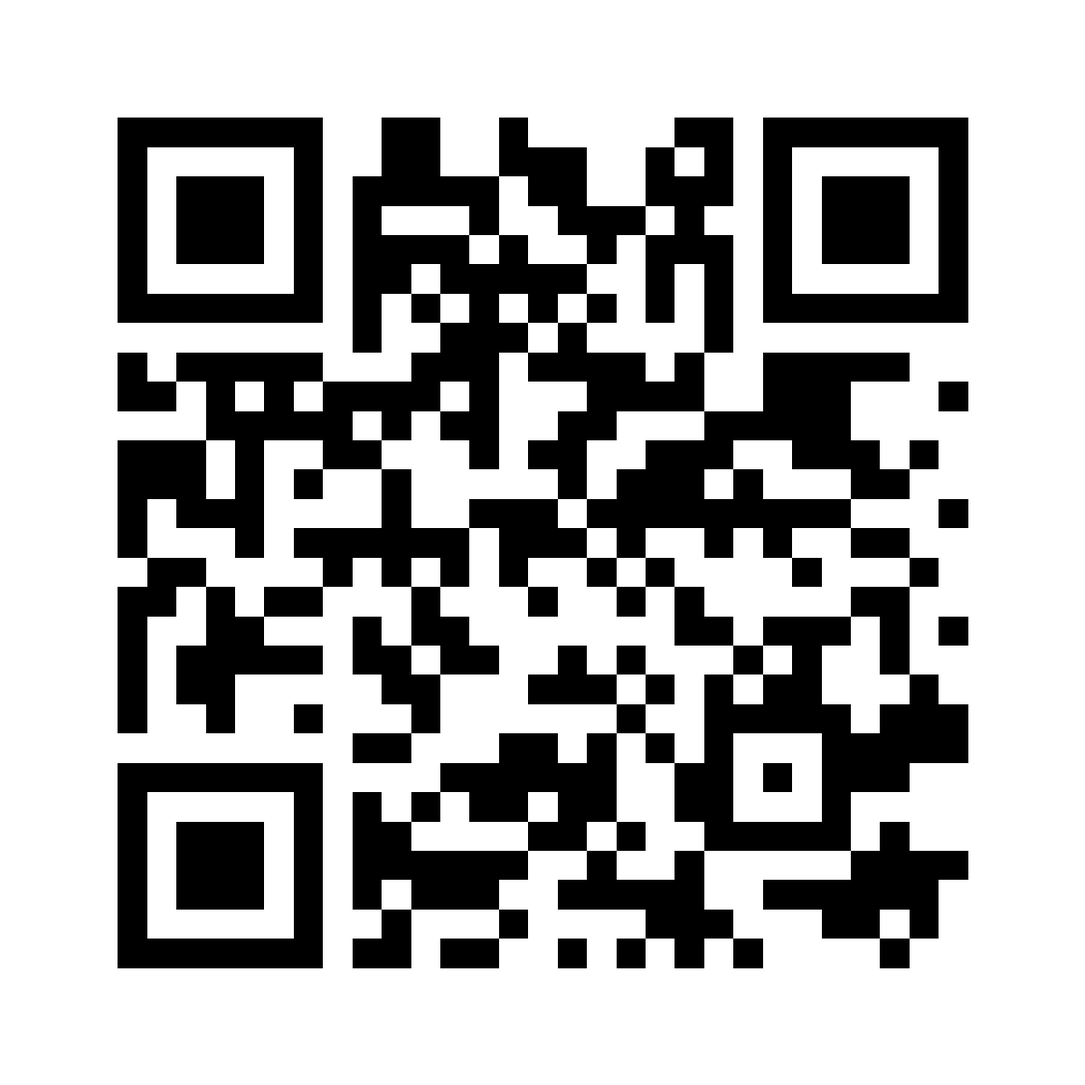
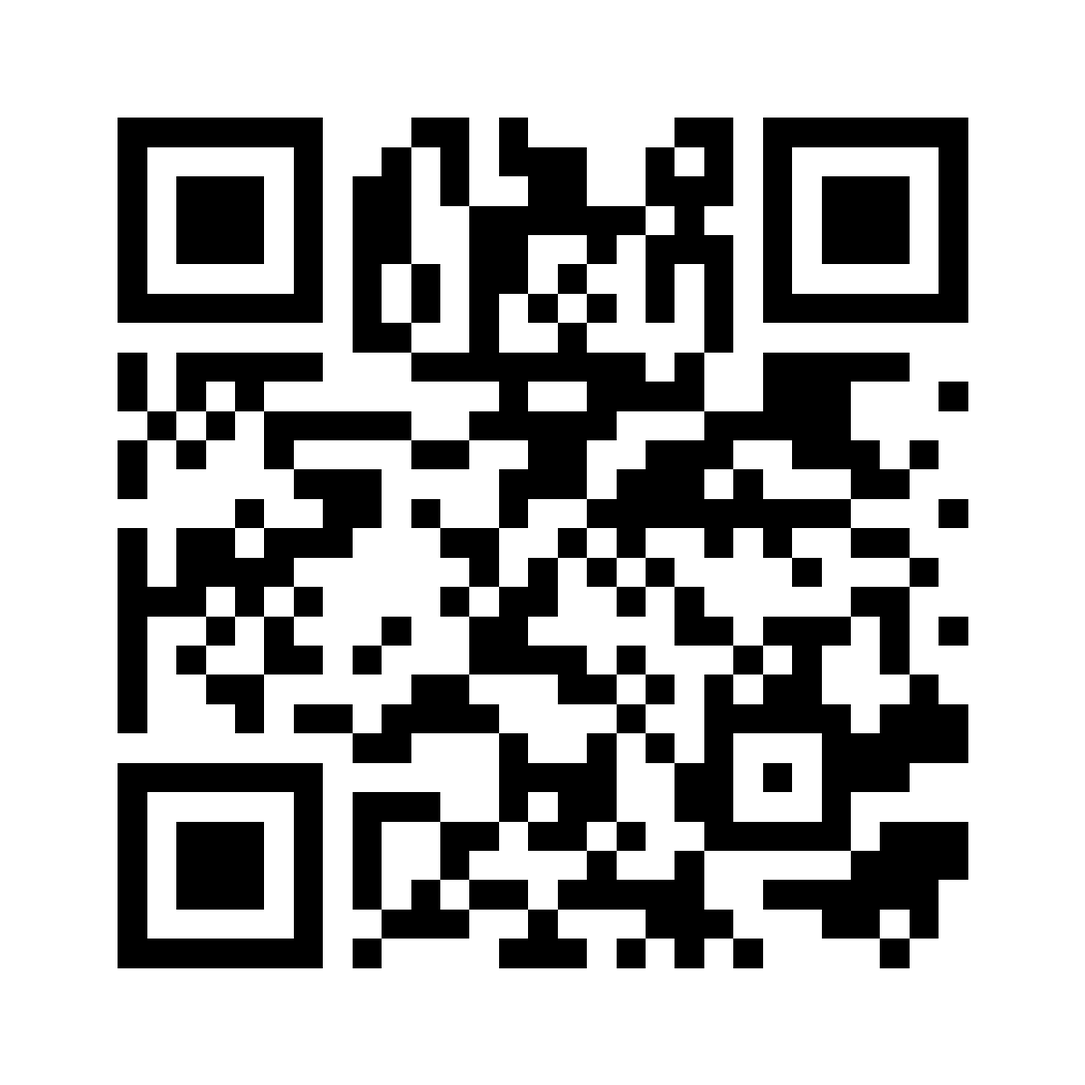
store-member-qr-and-walkin-loyalty

Changed region(s): [[0.0925, 0.0925, 0.5242, 0.8942], [0.8325, 0.74, 0.8942, 0.8017]]

diff --git a/app/staff/page.tsx b/app/staff/page.tsx
@@ -49,6 +49,7 @@ const baht = (n) => {
 // ที่อยู่เว็บจริง — ใช้ทำลิงก์ใน QR บนสติกเกอร์ (ต้องเป็นเว็บจริงเสมอ ไม่ใช่ localhost ไม่งั้นสติกเกอร์ที่พิมพ์ไปใช้ไม่ได้)
 const SITE_URL = process.env.NEXT_PUBLIC_SITE_URL || "https://honey-studio-opal.vercel.app";
 // ลิงก์หน้าสินค้าสาธารณะ (ไม่ต้องล็อกอิน) — ปลายทางของ QR
+const MEMBER_URL = SITE_URL.replace(/\/$/,'')+'/join';
 const productUrl = (id) => `${SITE_URL}/p/${encodeURIComponent(id)}`;
 const ICONS = { Crown, Shield, UserCog, Users };
 const genId = (prefix) => prefix + Math.floor(1000 + Math.random() * 9000);
@@ -572,10 +573,11 @@ const rentalFields = (isEdit) => [
   { key: "id", label: "เลขที่การเช่า", required: true, readOnly: isEdit, placeholder: "เช่น R-501" },
   { key: "cust", label: "ลูกค้า", type: "customer", required: true },
   { key: "phone", label: "เบอร์โทรลูกค้า", placeholder: "เช่น 081-234-5678" },
+  { key: "userId", label: "รหัสสมาชิกจากแอพลูกค้า (ถ้ามี)", placeholder: "ให้ลูกค้าเปิดหน้าสมาชิก แล้วคัดลอกรหัส" },
   { key: "code", label: "เลือกชุดจากคลัง (ตัดสต็อกอัตโนมัติ + เติมชื่อ/ค่าเช่าให้)", type: "product", fill: { item: "name", fee: (p) => p.rent || 0, deposit: (p)=>p.rent||0 } },
   { key: "item", label: "รายการที่เช่า (แก้ไขได้)", required: true },
-  { key: "start", label: "วันรับ", placeholder: "เช่น 16 มิ.ย." },
-  { key: "end", label: "วันคืน", placeholder: "เช่น 18 มิ.ย." },
+  { key: "start", label: "วันรับ", type: isEdit ? "text" : "date", required: !isEdit, placeholder: "YYYY-MM-DD" },
+  { key: "end", label: "วันคืน", type: isEdit ? "text" : "date", required: !isEdit, placeholder: "YYYY-MM-DD" },
   { key: "fee", label: "ค่าเช่า (บาท)", type: "number" },
   { key: "deposit", label: "เงินมัดจำ (บาท)", type: "number" },
   { key: "fine", label: "ค่าปรับล่าช้า (บาท)", type: "number" },
@@ -974,12 +976,12 @@ export default function App() {
       {appQrOpen&&<Modal title="QR เข้าสู่แอพสำหรับลูกค้า" onClose={()=>setAppQrOpen(false)}>
         <div className="flex flex-col items-center gap-4 text-center">
           <div className="font-bold">HONEY STUDIO</div>
-          <QR value={SITE_URL.replace(/\/$/,'')+'/'} size={220} onData={setAppQrPng}/>
-          <p className="text-sm">สแกนเพื่อเข้าสู่แอพ สมัครสมาชิก หรือเข้าสู่ระบบ<br/>ติดตั้งแอพจากปุ่ม “ติดตั้งแอป” ได้</p>
-          <a href={SITE_URL} target="_blank" rel="noreferrer" className="underline text-xs break-all">{SITE_URL}</a>
+          <QR value={MEMBER_URL} size={220} onData={setAppQrPng}/>
+          <p className="text-sm">ลูกค้าหน้าร้าน: สแกนสมัครสมาชิก / เข้าสู่ระบบ เพื่อสะสมแต้มและรับแจ้งเตือน<br/>ติดตั้งแอพจากปุ่ม “ติดตั้งแอป” ได้</p>
+          <a href={MEMBER_URL} target="_blank" rel="noreferrer" className="underline text-xs break-all">{MEMBER_URL}</a>
           <div className="flex gap-2 flex-wrap justify-center">
             <Btn onClick={()=>{if(!appQrPng)return;const a=document.createElement('a');a.href=appQrPng;a.download='HONEY-STUDIO-app-QR.png';a.click();}}>ดาวน์โหลด QR</Btn>
-            <Btn variant="outline" onClick={()=>{if(!appQrPng)return;openPrintWindow('QR แอพ HONEY STUDIO',`<div class="wrap box center"><div class="big">HONEY STUDIO</div><p>สแกนเพื่อเข้าสู่แอพ</p><img src="${appQrPng}" width="240" height="240" alt="QR แอพ"/><p>สมัครสมาชิก / เข้าสู่ระบบ</p><div class="muted" style="font-size:11px">${esc(SITE_URL)}</div></div>`);}}>พิมพ์ QR</Btn>
+            <Btn variant="outline" onClick={()=>{if(!appQrPng)return;openPrintWindow('QR แอพ HONEY STUDIO',`<div class="wrap box center"><div class="big">HONEY STUDIO</div><p>สแกนเพื่อเข้าสู่แอพ</p><img src="${appQrPng}" width="240" height="240" alt="QR แอพ"/><p>สมัครสมาชิก / เข้าสู่ระบบ</p><div class="muted" style="font-size:11px">${esc(MEMBER_URL)}</div></div>`);}}>พิมพ์ QR</Btn>
           </div>
         </div>
       </Modal>}

diff --git a/scripts/verify-store-member.ts b/scripts/verify-store-member.ts
@@ -1,0 +1,38 @@
+import assert from 'node:assert/strict';
+import {randomUUID} from 'node:crypto';
+import {config} from 'dotenv';
+import {Client} from 'pg';
+import {createSession} from '../lib/auth';
+import {thaiToday} from '../lib/booking-availability';
+config({path:'.env.local',quiet:true});
+async function main(){
+  const base='http://127.0.0.1:3019',suffix=randomUUID(),code='TEST-MEMBER-'+suffix,email='member-'+suffix+'@example.invalid';
+  const staff=await createSession({id:'test-owner',name:'ทดสอบ',role:'เจ้าของ',email:'owner@example.invalid'});
+  const other=await createSession({id:'other-'+suffix,name:'สมาชิกหน้าร้านทดสอบ',role:'ลูกค้า',email:'other@example.invalid'});
+  const db=new Client({connectionString:process.env.DATABASE_URL});await db.connect();let memberId='';
+  async function req(path:string,cookie='',method='GET',body?:object){const r=await fetch(base+path,{method,headers:{'Content-Type':'application/json',...(cookie?{Cookie:'hs_session='+cookie}:{})},...(body?{body:JSON.stringify(body)}:{})});return {status:r.status,data:await r.json(),cookie:r.headers.get('set-cookie')};}
+  try{
+    const join=await fetch(base+'/join',{redirect:'manual'});assert.equal(join.status,307);assert.ok(join.headers.get('location')?.includes('/login?next=%2Fmember'));
+    const register=await req('/api/auth/register','','POST',{name:'สมาชิกหน้าร้านทดสอบ',email,password:'test-'+suffix});assert.equal(register.status,200);memberId=register.data.user.id;
+    const cookie=register.cookie!.match(/hs_session=([^;]+)/)![1];
+    const joined=await fetch(base+'/join',{headers:{Cookie:'hs_session='+cookie},redirect:'manual'});assert.ok(joined.headers.get('location')?.endsWith('/member'));
+    const memberPage=await fetch(base+'/member',{headers:{Cookie:'hs_session='+cookie}});assert.equal(memberPage.status,200);assert.ok((await memberPage.text()).includes('สมาชิกหน้าร้าน'));
+    assert.equal((await req('/api/shop/customer-account',cookie)).data.memberId,memberId);
+    assert.equal((await req('/api/products',staff,'POST',{id:code,name:'ชุดทดสอบสมาชิกหน้าร้าน',cat:'ชุดราตรี',type:'เช่า',rent:300,stockRent:1,stockSell:0})).status,201);
+    const body={id:'TEST-WALKIN-'+suffix,code,item:'ชุดทดสอบสมาชิกหน้าร้าน',cust:'สมาชิกหน้าร้านทดสอบ',start:thaiToday(),end:new Date(Date.parse(thaiToday())+86400000).toISOString().slice(0,10),fee:300,deposit:300,status:'รับชุดแล้ว'};
+    assert.equal((await req('/api/rentals',staff,'POST',{...body,userId:'unknown-member'})).status,409);
+    assert.equal((await req('/api/rentals',staff,'POST',{...body,userId:memberId,start:'16 มิ.ย.'})).status,409);
+    const rental=await req('/api/rentals',staff,'POST',{...body,userId:memberId});assert.equal(rental.status,201);assert.equal(rental.data.online,false);
+    const account=await req('/api/shop/customer-account',cookie);assert.equal(account.data.rentals.length,1);assert.equal(account.data.balance,0);assert.ok(account.data.notifications.length>0);
+    assert.equal((await req('/api/shop/customer-account',other)).data.rentals.length,0);assert.equal((await req('/api/rentals',other)).data.some((r:{id:string})=>r.id===body.id),false);
+    assert.equal((await req('/api/rentals/'+body.id,staff,'PATCH',{status:'คืนแล้ว'})).status,200);assert.equal((await req('/api/rentals/'+body.id,staff,'PATCH',{status:'คืนแล้ว'})).status,200);assert.equal((await req('/api/shop/customer-account',cookie)).data.balance,1);
+    assert.equal((await req('/api/rentals/'+body.id,staff,'PATCH',{userId:''})).status,409);
+    const action='/api/products/'+code+'/rental-actions';
+    const qr=await req(action,staff,'POST',{action:'rent',userId:memberId,cust:'สมาชิกหน้าร้านทดสอบ',start:thaiToday(),days:1});assert.equal(qr.status,201);
+    assert.equal((await req(action,staff,'POST',{action:'return',rentalId:qr.data.rental.id})).status,200);assert.equal((await req('/api/shop/customer-account',cookie)).data.balance,2);
+    console.log('PASS: store QR redirects, signup session, member home, valid member link, walk-in rental privacy, reminders, POS/QR return points and duplicate prevention');
+  }finally{
+    await db.query('BEGIN');await db.query('DELETE FROM "LoyaltyEntry" WHERE "userId"=$1',[memberId]);await db.query('DELETE FROM "NotificationRead" WHERE "userId"=$1',[memberId]);await db.query('DELETE FROM "Rental" WHERE code=$1',[code]);await db.query('DELETE FROM "Product" WHERE id=$1',[code]);await db.query('DELETE FROM "User" WHERE email=$1',[email]);await db.query('COMMIT');await db.end();console.log('Temporary member test data removed');
+  }
+}
+main().catch(e=>{console.error(e.message);process.exitCode=1;});

diff --git a/app/member/member-home.tsx b/app/member/member-home.tsx
@@ -1,0 +1,11 @@
+'use client';
+import {useEffect,useState} from 'react';
+import CustomerAccount from '../shop/customer-account';
+import LineContact from '../shop/line-contact';
+import InstallApp from '../install-app';
+type Account={memberId:string;name:string;balance:number;rentals:{id:string;item:string;start:string;end:string;status:string;online:boolean}[]};
+export default function MemberHome(){
+  const [data,setData]=useState<Account|null>(null),[error,setError]=useState(''),[copied,setCopied]=useState(false);
+  useEffect(()=>{let active=true;async function load(){try{const r=await fetch('/api/shop/customer-account',{cache:'no-store'});if(!r.ok)throw new Error();const d=await r.json();if(active){setData(d);setError('');}}catch{if(active)setError('โหลดข้อมูลไม่สำเร็จ กรุณาลองใหม่');}}void load();const timer=setInterval(load,60000);window.addEventListener('focus',load);return()=>{active=false;clearInterval(timer);window.removeEventListener('focus',load);};},[]);
+  return <div className="min-h-screen bg-[#fcfaf6] text-stone-800"><header className="max-w-3xl mx-auto p-5 flex items-center justify-between"><a href="/member" className="font-serif font-bold tracking-widest">HONEY STUDIO</a><div className="flex items-center gap-3"><CustomerAccount/><button className="text-xs underline" onClick={async()=>{await fetch('/api/auth/logout',{method:'POST'});window.location.href='/join';}}>ออกจากระบบ</button></div></header><main className="max-w-3xl mx-auto px-5 pb-40 space-y-5"><h1 className="shop-title">สมาชิกหน้าร้าน</h1>{error&&<p role="alert">{error}</p>}{!data&&!error&&<p>กำลังโหลดข้อมูลสมาชิก…</p>}{data&&<><section className="shop-panel"><h2 className="font-bold text-lg">สวัสดีค่ะ {data.name}</h2><p className="text-sm my-3">แสดงรหัสสมาชิกนี้ให้พนักงานผูกกับรายการเช่าของคุณ</p><p className="font-mono break-all bg-stone-100 rounded-lg p-3">{data.memberId}</p><button className="shop-button secondary mt-3" onClick={async()=>{try{await navigator.clipboard.writeText(data.memberId);setCopied(true);}catch{setError('กรุณาเลือกรหัสสมาชิกแล้วคัดลอก');}}}>{copied?'คัดลอกแล้ว':'คัดลอกรหัสสมาชิก'}</button><p className="mt-4 font-semibold text-amber-800">แต้มสะสม {data.balance} แต้ม</p><p className="text-xs text-stone-500 mt-1">เช่าและคืนครบ 1 ครั้ง = 1 แต้ม · ดูประวัติและแจ้งเตือนที่กระดิ่ง</p></section><section><h2 className="font-bold mb-3">รายการเช่าของฉัน</h2>{data.rentals.length===0?<p className="shop-panel text-sm">ยังไม่มีรายการเช่า เมื่อพนักงานผูกบัญชีแล้ว รายการและกำหนดคืนจะแสดงที่นี่ค่ะ</p>:data.rentals.map(r=><article className="shop-panel mb-3" key={r.id}><h3 className="font-semibold">{r.item}</h3><p className="text-sm mt-2">รับชุด {r.start} · คืนชุด {r.end}</p><p className="text-sm mt-1">สถานะ: {r.status}</p></article>)}</section></>}<InstallApp/><a href="/shop" className="block underline text-sm">ดูชุดของร้าน</a></main><LineContact/></div>;
+}

diff --git a/app/api/shop/customer-account/route.ts b/app/api/shop/customer-account/route.ts
@@ -7,13 +7,13 @@ export async function GET(){
   const user=await currentUser();if(!user)return NextResponse.json({error:'กรุณาเข้าสู่ระบบ'},{status:401});
   const today=thaiToday(),tomorrow=new Date(Date.parse(today)+86400000).toISOString().slice(0,10);
   const [rentals,history,read]=await Promise.all([
-    prisma.rental.findMany({where:{userId:user.id,online:true},orderBy:{createdAt:'desc'},take:100}),
+    prisma.rental.findMany({where:{userId:user.id},orderBy:{createdAt:'desc'},take:100}),
     prisma.loyaltyEntry.findMany({where:{userId:user.id},orderBy:{createdAt:'desc'}}),
     prisma.notificationRead.findMany({where:{userId:user.id}}),
   ]);
   const notifications=rentals.flatMap(r=>{
-    const href='/shop?view=bookings&booking='+encodeURIComponent(r.id);
-    const result=[{id:r.id+':status:'+r.status+':'+r.paymentStatus,title:r.stockReturned?'คืนชุดเรียบร้อย':r.status==='ยกเลิก'?'ยกเลิกการจองแล้ว':'สถานะการจอง: '+r.status,body:r.item+' • '+r.paymentStatus,href}];
+    const href=r.online?'/shop?view=bookings&booking='+encodeURIComponent(r.id):'/member';
+    const result=[{id:r.id+':status:'+r.status+':'+r.paymentStatus,title:r.stockReturned?'คืนชุดเรียบร้อย':r.status==='ยกเลิก'?'ยกเลิกการจองแล้ว':'สถานะการจอง: '+r.status,body:r.item+' • '+(r.online?r.paymentStatus:'เช่าหน้าร้าน'),href}];
     if(!r.stockReturned&&r.status!=='ยกเลิก'){
       if(!r.stockApplied&&(r.start===today||r.start===tomorrow))result.unshift({id:r.id+':pickup:'+today,title:r.start===today?'วันนี้ถึงคิวรับชุด':'พรุ่งนี้ถึงคิวรับชุด',body:r.item+' • วันรับ '+r.start,href});
       if(r.stockApplied&&r.end<=tomorrow)result.unshift({id:r.id+':return:'+today,title:r.end<today?'เลยกำหนดคืนชุด':r.end===today?'วันนี้ครบกำหนดคืนชุด':'พรุ่งนี้ครบกำหนดคืนชุด',body:r.item+' • วันคืน '+r.end,href});
@@ -21,7 +21,7 @@ export async function GET(){
     return result;
   });
   const readIds=new Set(read.map(r=>r.key));
-  return NextResponse.json({balance:history.reduce((sum,e)=>sum+e.points,0),history,notifications:notifications.map(n=>({...n,read:readIds.has(n.id)}))},{headers:{'Cache-Control':'no-store'}});
+  return NextResponse.json({memberId:user.id,name:user.name,rentals:rentals.map(r=>({id:r.id,item:r.item,start:r.start,end:r.end,status:r.status,online:r.online})),balance:history.reduce((sum,e)=>sum+e.points,0),history,notifications:notifications.map(n=>({...n,read:readIds.has(n.id)}))},{headers:{'Cache-Control':'no-store'}});
 }
 export async function PATCH(req:Request){
   const user=await currentUser();if(!user)return NextResponse.json({error:'กรุณาเข้าสู่ระบบ'},{status:401});

diff --git a/app/p/[id]/rental-controls.tsx b/app/p/[id]/rental-controls.tsx
@@ -6,6 +6,7 @@ export default function RentalControls({product}:{product:{id:string;rent:number
   const [stock,setStock]=useState<{stockRent:number;stockSell:number;status:string;rentals:Rental[];bookings?:Rental[]}|null>(null);
   const [cust,setCust]=useState(''),[phone,setPhone]=useState(''),[days,setDays]=useState(1),[start,setStart]=useState(()=>new Date(Date.now()+7*3600000).toISOString().slice(0,10));
   const [busy,setBusy]=useState(false),[error,setError]=useState(''),[message,setMessage]=useState('');
+  const [userId,setUserId]=useState('');
   const url=`/api/products/${encodeURIComponent(product.id)}/rental-actions`;
   async function load(){const response=await fetch(url,{cache:'no-store'});const data=await response.json();if(!response.ok)throw new Error(data.error||'โหลดสต๊อกไม่สำเร็จ');setStock(data);}
   useEffect(()=>{load().catch(e=>setError(e.message));},[url]);
@@ -14,7 +15,8 @@ export default function RentalControls({product}:{product:{id:string;rent:number
     <h2 className="font-bold">เช็คสต๊อก · เช่า · คืน</h2>
     {stock?<p>คลังเช่า {stock.stockRent} ตัว · คลังขาย {stock.stockSell} ตัว · {stock.status}</p>:<p>กำลังตรวจสต๊อก…</p>}
     <button disabled={busy} type="button" onClick={()=>load().catch(e=>setError(e.message))} className="underline text-sm">ตรวจสต๊อกล่าสุด</button>
-    {['เช่า','ทั้งคู่'].includes(product.type)&&<form className="space-y-2" onSubmit={e=>{e.preventDefault();act({action:'rent',cust,phone,days,start});}}>
+    {['เช่า','ทั้งคู่'].includes(product.type)&&<form className="space-y-2" onSubmit={e=>{e.preventDefault();act({action:'rent',cust,phone,days,start,userId});}}>
+      <label className="block text-sm">รหัสสมาชิกจากแอพลูกค้า (ถ้ามี)<input maxLength={200} value={userId} onChange={e=>setUserId(e.target.value)} placeholder="ผูกบัญชีเพื่อสะสมแต้มและแจ้งเตือน" className="w-full border rounded-lg p-2"/></label>
       <label className="block text-sm">ชื่อลูกค้า<input required maxLength={200} value={cust} onChange={e=>setCust(e.target.value)} className="w-full border rounded-lg p-2"/></label>
       <label className="block text-sm">โทรศัพท์<input maxLength={40} value={phone} onChange={e=>setPhone(e.target.value)} className="w-full border rounded-lg p-2"/></label>
       <label className="block text-sm">วันที่รับ<input required type="date" value={start} onChange={e=>setStart(e.target.value)} className="w-full border rounded-lg p-2"/></label>

diff --git a/app/api/products/[id]/rental-actions/route.ts b/app/api/products/[id]/rental-actions/route.ts
@@ -5,6 +5,7 @@ import { currentUser } from '@/lib/session';
 import { rentalPrice } from '@/lib/product-details';
 import {remainingForDates} from '@/lib/booking-availability';
 import {awardReturnPoint} from '@/lib/customer-rewards';
+import {validateMember} from '@/lib/member-link';
 export const dynamic='force-dynamic';
 const staffRoles=['เจ้าของ','ผู้ดูแลระบบ','พนักงานขาย'];
 async function staff(){const user=await currentUser();return user&&staffRoles.includes(user.role)?user:null;}
@@ -28,6 +29,7 @@ export async function POST(req:Request,{params}:{params:Promise<{id:string}>}){
       if(!Number.isInteger(days)||days<1||days>365||!cust||cust.length>200||!/^\d{4}-\d{2}-\d{2}$/.test(start)||!Number.isFinite(date.getTime())||date.toISOString().slice(0,10)!==start)return NextResponse.json({error:'กรอกชื่อลูกค้า วันที่รับ และจำนวนวัน 1–365'},{status:400});
       const end=new Date(date.getTime()+days*86400000).toISOString().slice(0,10);
       const rental=await prisma.$transaction(async tx=>{
+        const userId=await validateMember(tx,body.userId);
         await tx.$queryRaw`SELECT id FROM "Product" WHERE id = ${id} FOR UPDATE`;
         const product=await tx.product.findUnique({where:{id}});
         if(!product||!['เช่า','ทั้งคู่'].includes(product.type)||['ซัก','ซ่อม','ปลดสต็อก'].includes(product.status))throw new Error('ชุดนี้ยังไม่พร้อมเช่า');
@@ -35,7 +37,7 @@ export async function POST(req:Request,{params}:{params:Promise<{id:string}>}){
         if(remainingForDates(product,reservations,start,end)<1)throw new Error('ชุดมีการจองทับช่วงวันที่เลือก');
         const claimed=await tx.product.updateMany({where:{id,stockRent:{gt:0}},data:{stockRent:{decrement:1}}});
         if(!claimed.count)throw new Error('สต๊อกเช่าหมดแล้ว กรุณาตรวจใหม่');
-        return tx.rental.create({data:{id:'R-'+randomUUID(),code:id,item:product.name,cust,phone:String(body.phone||'').slice(0,40),start,end,fee:rentalPrice(product,days),deposit:product.rent,status:'รับชุดแล้ว',inspector:user.name,stockApplied:true,stockReturned:false}});
+        return tx.rental.create({data:{id:'R-'+randomUUID(),userId,code:id,item:product.name,cust,phone:String(body.phone||'').slice(0,40),start,end,fee:rentalPrice(product,days),deposit:product.rent,status:'รับชุดแล้ว',inspector:user.name,stockApplied:true,stockReturned:false}});
       },{timeout:15000});
       return NextResponse.json({ok:true,rental},{status:201});
     }

diff --git a/app/api/rentals/route.ts b/app/api/rentals/route.ts
@@ -2,6 +2,7 @@ import { NextResponse } from "next/server";
 import { prisma } from "@/lib/prisma";
 import { currentUser, isOwnRecord } from "@/lib/session";
 import {isDate,remainingForDates} from '@/lib/booking-availability';
+import {validateMember} from '@/lib/member-link';
 
 export const dynamic = "force-dynamic";
 
@@ -10,7 +11,7 @@ export async function GET() {
   // role "ลูกค้า" ต้องเห็นเฉพาะการเช่าของตัวเอง — กรองที่เซิร์ฟเวอร์ (ดูคำอธิบายใน /api/orders)
   const me = await currentUser();
   if (me?.role === "ลูกค้า") {
-    return NextResponse.json(rentals.filter((r) => r.online?r.userId===me.id:isOwnRecord(r.cust, me.name)));
+    return NextResponse.json(rentals.filter((r) => r.userId?r.userId===me.id:!r.online&&isOwnRecord(r.cust, me.name)));
   }
   return NextResponse.json(rentals);
 }
@@ -24,6 +25,8 @@ export async function POST(req: Request) {
   const { stockApplied: _a, stockReturned: _b, ...clean } = body;
   try{
     const created=await prisma.$transaction(async tx=>{
+      const userId=await validateMember(tx,body.userId);
+      if(userId&&(!isDate(String(body.start||''))||!isDate(String(body.end||''))||body.end<=body.start))throw new Error('รายการสมาชิกต้องระบุวันรับและวันคืนเป็นวันที่จริง โดยวันคืนหลังวันรับ');
       if(code){
         await tx.$queryRaw`SELECT id FROM "Product" WHERE id=${code} FOR UPDATE`;
         if(isDate(String(body.start||''))&&isDate(String(body.end||''))){
@@ -34,7 +37,7 @@ export async function POST(req: Request) {
         const claimed=await tx.product.updateMany({where:{id:code,type:{in:['เช่า','ทั้งคู่']},stockRent:{gt:0},status:{notIn:['ซัก','ซ่อม','ปลดสต็อก']}},data:{stockRent:{decrement:1}}});
         if(!claimed.count)throw new Error('ชุดนี้ไม่มีสต๊อกพร้อมเช่า');
       }
-      return tx.rental.create({data:{...clean,code,stockApplied:!!code,stockReturned:false}});
+      return tx.rental.create({data:{...clean,userId,online:false,code,stockApplied:!!code,stockReturned:false}});
     },{timeout:15000});
     return NextResponse.json(created,{status:201});
   }catch(error){return NextResponse.json({error:error instanceof Error?error.message:'บันทึกไม่สำเร็จ'},{status:409});}

diff --git a/app/api/rentals/[id]/route.ts b/app/api/rentals/[id]/route.ts
@@ -1,6 +1,8 @@
 import { NextResponse } from 'next/server';
 import { prisma } from '@/lib/prisma';
 import {awardReturnPoint} from '@/lib/customer-rewards';
+import {validateMember} from '@/lib/member-link';
+import {isDate} from '@/lib/booking-availability';
 export const dynamic='force-dynamic';
 export async function PATCH(req:Request,{params}:{params:Promise<{id:string}>}){
   const {id}=await params;
@@ -9,6 +11,11 @@ export async function PATCH(req:Request,{params}:{params:Promise<{id:string}>}){
     const updated=await prisma.$transaction(async tx=>{
       await tx.$queryRaw`SELECT id FROM "Rental" WHERE id = ${id} FOR UPDATE`;
       const cur=await tx.rental.findUniqueOrThrow({where:{id}});
+      if(clean.userId!==undefined&&clean.userId!==cur.userId){
+        if(cur.online||cur.stockReturned)throw new Error('เปลี่ยนสมาชิกไม่ได้สำหรับรายการออนไลน์หรือคืนแล้ว');
+        clean.userId=await validateMember(tx,clean.userId);
+        if(clean.userId&&(!isDate(String(clean.start??cur.start))||!isDate(String(clean.end??cur.end))||(clean.end??cur.end)<=(clean.start??cur.start)))throw new Error('กรอกวันรับและวันคืนรูปแบบ YYYY-MM-DD เพื่อแจ้งเตือนสมาชิก');
+      }
       if(cur.stockApplied&&clean.code!==undefined&&clean.code!==cur.code)throw new Error('เปลี่ยนรหัสชุดไม่ได้หลังตัดสต๊อก กรุณาคืนรายการเดิมก่อน');
       if(cur.stockReturned&&clean.status&&clean.status!=='คืนแล้ว')throw new Error('รายการคืนแล้ว กรุณาสร้างการเช่าใหม่');
       if(cur.online&&['รับชุดแล้ว','กำลังเช่า'].includes(clean.status)&&!cur.stockApplied){

diff --git a/proxy.ts b/proxy.ts
@@ -11,7 +11,7 @@ export async function proxy(req: NextRequest) {
   // /p/<รหัสสินค้า> = หน้าสินค้าสาธารณะ (ปลายทางของ QR บนสติกเกอร์ ลูกค้าสแกนแล้วต้องเปิดได้เลย)
   // โลโก้/ไอคอน = ไฟล์รูปสาธารณะ ต้องโหลดได้แม้ยังไม่ล็อกอิน (หน้า login + หน้าสินค้าสาธารณะใช้)
   // manifest + sw.js = ไฟล์ PWA สำหรับติดตั้งเป็นแอปมือถือ ต้องเปิดสาธารณะเช่นกัน
-  if (pathname === '/' || pathname === '/shop' || pathname.startsWith('/shop/') || pathname.startsWith('/api/shop/') || pathname.startsWith("/login") || pathname.startsWith("/api/auth") || pathname.startsWith("/p/") ||
+  if (pathname === '/join' || pathname === '/' || pathname === '/shop' || pathname.startsWith('/shop/') || pathname.startsWith('/api/shop/') || pathname.startsWith("/login") || pathname.startsWith("/api/auth") || pathname.startsWith("/p/") ||
       pathname === "/logo.png" || pathname.startsWith("/icon") || pathname.startsWith("/apple-icon") ||
       pathname === "/manifest.webmanifest" || pathname === "/sw.js" || pathname === "/qr-app.png" || pathname === "/qr-app.svg") {
     return NextResponse.next();

diff --git a/app/login/page.tsx b/app/login/page.tsx
@@ -36,7 +36,7 @@ export default function LoginPage() {
         return;
       }
       const next=new URLSearchParams(window.location.search).get('next');
-      const safeNext=next&&(next.startsWith('/p/')||next.startsWith('/shop'))&&!next.includes('\\')?next:null;
+      const safeNext=next&&(next.startsWith('/p/')||next.startsWith('/shop')||next==='/member')&&!next.includes('\\')?next:null;
       window.location.href = safeNext || (data.user?.role==='ลูกค้า'?'/shop':'/staff');
     } catch {
       setErr("เกิดข้อผิดพลาด กรุณาลองใหม่");

diff --git a/lib/member-link.ts b/lib/member-link.ts
@@ -1,0 +1,8 @@
+import type {Prisma} from '@/app/generated/prisma/client';
+export async function validateMember(tx:Prisma.TransactionClient,value:unknown){
+  const id=String(value||'').trim();if(!id)return '';
+  if(id.length>200)throw new Error('รหัสสมาชิกไม่ถูกต้อง');
+  const member=await tx.user.findUnique({where:{id},select:{role:true}});
+  if(!member||member.role!=='ลูกค้า')throw new Error('ไม่พบสมาชิก กรุณาใช้รหัสจากแอพลูกค้า');
+  return id;
+}

diff --git a/app/member/page.tsx b/app/member/page.tsx
@@ -1,0 +1,8 @@
+import {redirect} from 'next/navigation';
+import {currentUser} from '@/lib/session';
+import MemberHome from './member-home';
+export const dynamic='force-dynamic';
+export default async function MemberPage(){
+  const user=await currentUser();if(!user)redirect('/login?next=%2Fmember');
+  return <MemberHome/>;
+}
